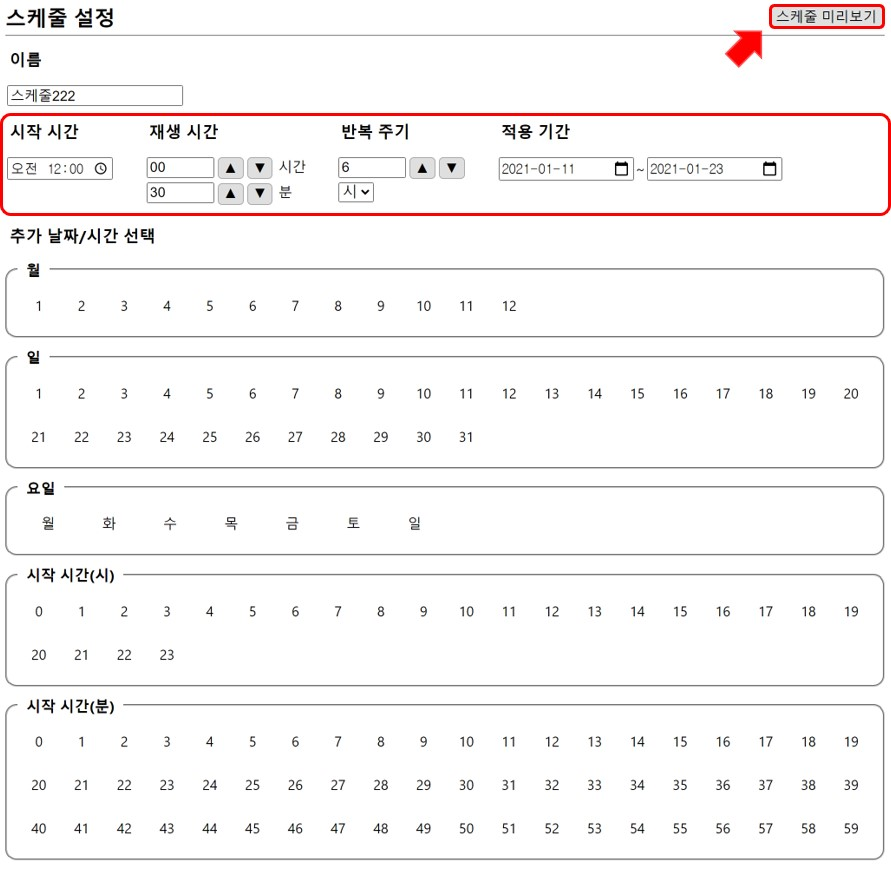
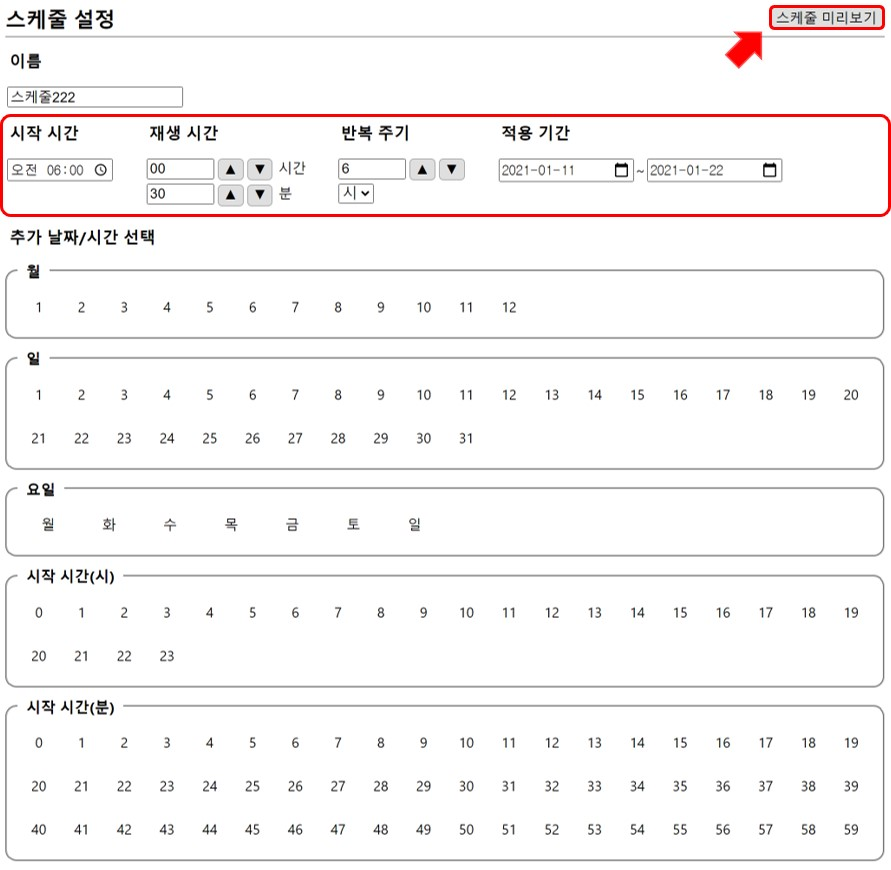
Update img_Schedule_repeat

diff --git a/schedule/repeat.md b/schedule/repeat.md
@@ -12,14 +12,13 @@
 **1. 기본 설정**된 시간 범위 내에서 **추가 날짜/시간**이 겹치는 동안에만 재생됩니다.
 
 ## 반복 재생 설정 이해하기
-**기본 설정**을 2021년 1월 11일 오전 12시 00분을 시작으로 2021년 1월 22일까지 6시간을 주기로 2시간 동안 재생되도록 설정하겠습니다.
+**기본 설정**을 2021년 1월 11일 오전 06시 00분을 시작으로 2021년 1월 22일까지 6시간을 주기로 2시간 동안 재생되도록 설정하겠습니다.
 
 <img src="./img/repeat/set1Schedule.jpg" style="border: 1px solid"/>
 
 추가 날짜/시간을 선택하지 않고 `스케줄 미리보기`로 확인하게 되면 2021년 1월 11일부터 2021년 1월 22일까지 매일 6시간을 주기로 **오전 12시**, **오전 6시**, **오후 12시**, **오후 6시**에 재생되는 것을 확인할 수 있습니다.
 
-<img src="./img/repeat/preview1Schedule.jpg" style="border: 1px solid"/>
-*스케줄 수정 후 이미지 추가*
+<img src="./img/repeat/preview1Schedule.jpg"/>
 
 이 스케줄 중에 **월요일, 수요일, 금요일**과 **오후 12시, 오후 6시** 에만 재생을 하려고 한다면 **추가 날짜/시간** 을 통해 재생하고 싶은 시간을 선택하면 됩니다.
 
@@ -27,6 +26,6 @@
 
 `스케줄 미리보기`로 확인하게 되면 2021년 1월 11일부터 2021년 1월 22일까지 **월요일, 수요일, 금요일**과 **오후 12시, 오후 6시**에만 재생되는 것을 확인할 수 있습니다.
 
-<img src="./img/repeat/preview2Schedule.jpg" style="border: 1px solid"/>
+<img src="./img/repeat/preview2Schedule.jpg"/>
 
 스케줄의 범위가 넓고 다양할 때는 **월**, **일**, **요일**, **시작 시간(시간)**, **시작 시간(분)** 단위로도 선택 가능합니다.
